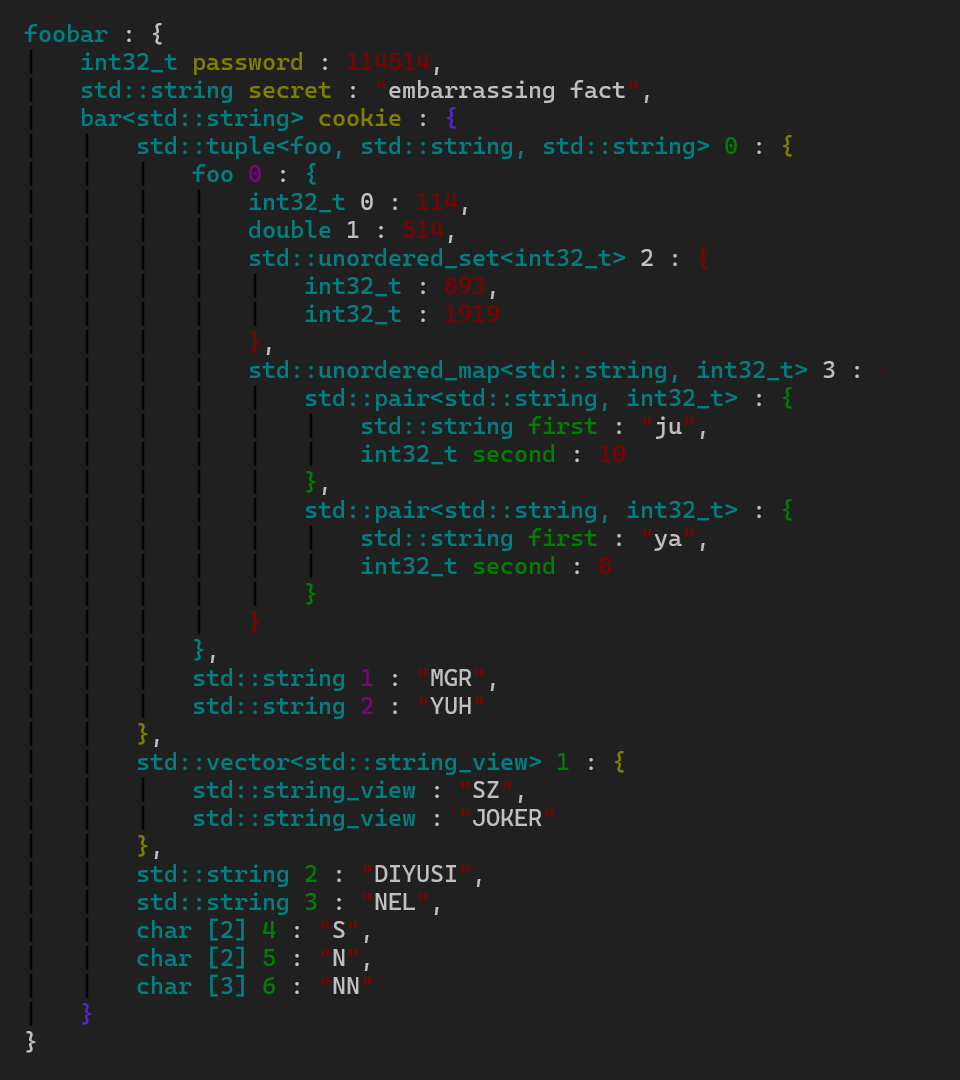
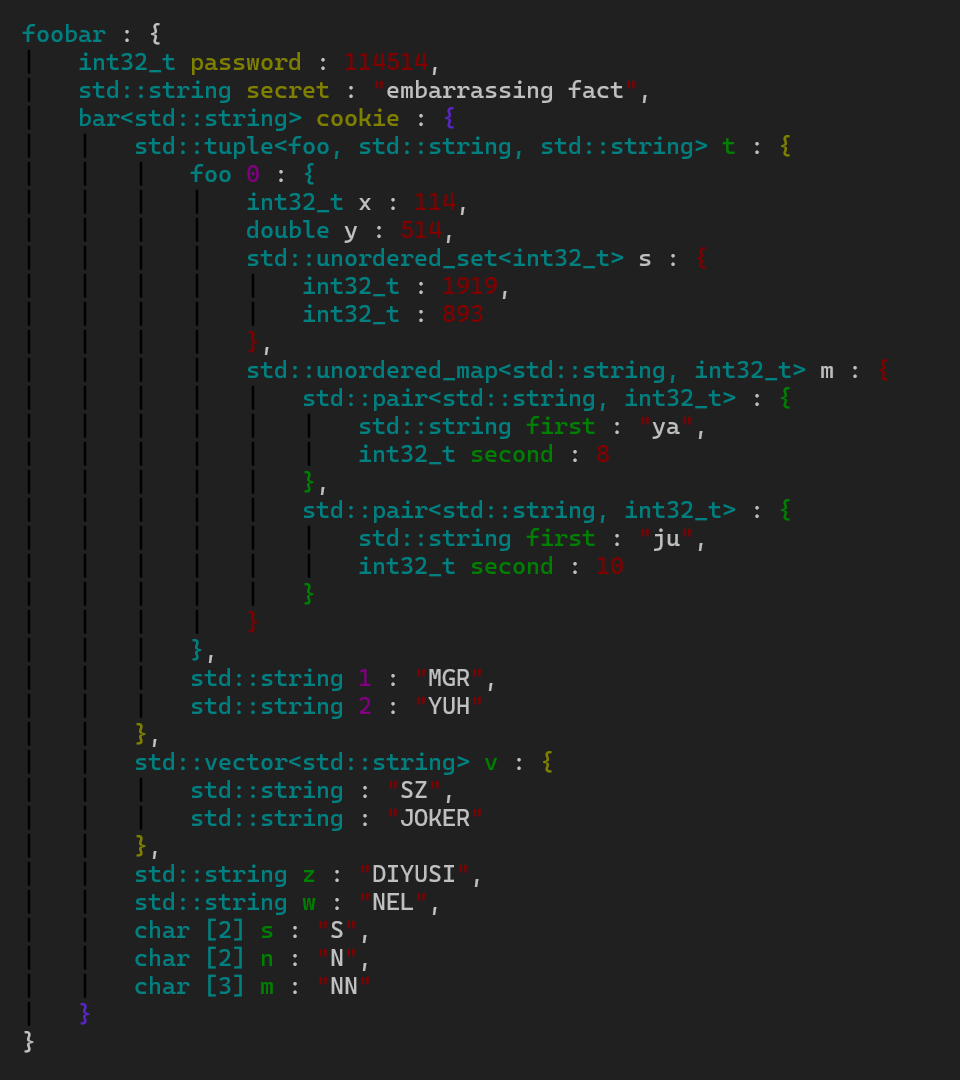
docs: demo/io edit and parse

diff --git a/demo/io/io.cpp b/demo/io/io.cpp
@@ -1,4 +1,5 @@
 #include <iostream>
+#include <sstream>
 #include <vector>
 #include <unordered_set>
 #include <unordered_map>
@@ -6,56 +7,65 @@
 #include "type_format.h"
 
 struct foo{
-	int x;
-	double y;
-	std::unordered_set<int> s;
-	std::unordered_map<std::string, int> m;
+    int x;
+    double y;
+    std::unordered_set<int> s;
+    std::unordered_map<std::string, int> m;
 };
 
 template<typename _Type>
 struct bar{
-	std::tuple<foo, std::string, std::string> t;
-	std::vector<std::string_view> v;
-	_Type z;
-	_Type w;
-	char s[2] = "S";
-	char n[2] = "N";
-	char e[0];
-	char m[3] = "NN";
-	char l[0];
+    std::tuple<foo, std::string, std::string> t;
+    std::vector<std::string> v;
+    _Type z;
+    _Type w;
+    char s[2] = "S";
+    char n[2] = "N";
+    char m[3] = "NN";
 };
 
 struct foobar{
 public:
-	template<std::convertible_to<bar<std::string>> _Cookie>
-	foobar(_Cookie &&_cookie): cookie(std::forward<_Cookie>(_cookie)){}
-	
+    template<std::convertible_to<bar<std::string>> _Cookie>
+    foobar(_Cookie &&_cookie): cookie(std::forward<_Cookie>(_cookie)){}
+    
 private:
-	int password = 114514;
-	std::string secret = "embarrassing fact";
-	bar<std::string> cookie;
+    int password = 114514;
+    std::string secret = "hidden fact";
+    bar<std::string> cookie;
 };
 
 // steal private members. 
 template<>
 struct fake::tool::steal<[]{}, fake::tool::adaptor<foobar>, &foobar::password, &foobar::secret, &foobar::cookie>{
-	// register meta-implementations for token-based-cpo 'fake::for_each<fake::cpo::format<...>>' at compile-time. 
-	using token = fake::cpo::format<fake::io::token::pretty>;
-	static_assert(fake::custom::for_each::config::emplace_visitor<[]{}, token, steal>());
+    // register meta-implementations for token-based-cpo 'fake::for_each<fake::cpo::format<...>>' at compile-time. 
+    using token = fake::cpo::format<fake::io::token::fancy>;
+    static_assert(fake::custom::for_each::config::emplace_visitor<[]{}, token, steal>());
 };
 
 int main(int _argc, char* _argv[])
 {
-	using namespace std::string_literals;
-	
-	bar<std::string> var{
-		{{114, 514.0, {1919, 893}, {{"ya", 8}, {"ju", 10}}}, "MGR", "YUH"},
-		{"SZ", "JOKER"},
-		"DIYUSI"s,
-		"NEL"s
-	};
-	
-	foobar lost_owner{std::move(var)};
-	
-	std::cout << fake::io::pretty<>(lost_owner) << std::endl;
+    using namespace std::string_literals;
+    
+    const bar<std::string> var{
+        {{114, 514.0, {1919, 893}, {{"ya", 8}, {"ju", 10}}}, "MGR", "YUH"},
+        {"SZ", "JOKER"},
+        "DIYUSI"s,
+        "NEL"s
+    };
+    
+    foobar lost_owner{std::move(var)};
+    std::stringstream ss;
+    const std::string_view substitute = "hidden";
+    
+    ss << fake::io::fancy<>(lost_owner);
+    
+    ss.str(ss.str().replace(ss.str().find(substitute), substitute.size(), "embarrassing"));
+    
+    foobar result{std::move(var)};
+    
+    ss >> fake::io::fancy<>(result);
+    
+    std::cout << fake::io::fancy<>(result) << std::endl;
 }
+

diff --git a/README.md b/README.md
@@ -145,6 +145,7 @@ The library is header‑only; no linking required except for threading support (
 
     ```c++
     #include <iostream>
+    #include <sstream>
     #include <vector>
     #include <unordered_set>
     #include <unordered_map>
@@ -161,14 +162,12 @@ The library is header‑only; no linking required except for threading support (
     template<typename _Type>
     struct bar{
         std::tuple<foo, std::string, std::string> t;
-        std::vector<std::string_view> v;
+        std::vector<std::string> v;
         _Type z;
         _Type w;
         char s[2] = "S";
         char n[2] = "N";
-        char e[0];
         char m[3] = "NN";
-        char l[0];
     };
 
     struct foobar{
@@ -178,7 +177,7 @@ The library is header‑only; no linking required except for threading support (
         
     private:
         int password = 114514;
-        std::string secret = "embarrassing fact";
+        std::string secret = "hidden fact";
         bar<std::string> cookie;
     };
 
@@ -186,7 +185,7 @@ The library is header‑only; no linking required except for threading support (
     template<>
     struct fake::tool::steal<[]{}, fake::tool::adaptor<foobar>, &foobar::password, &foobar::secret, &foobar::cookie>{
         // register meta-implementations for token-based-cpo 'fake::for_each<fake::cpo::format<...>>' at compile-time. 
-        using token = fake::cpo::format<fake::io::token::pretty>;
+        using token = fake::cpo::format<fake::io::token::fancy>;
         static_assert(fake::custom::for_each::config::emplace_visitor<[]{}, token, steal>());
     };
 
@@ -194,7 +193,7 @@ The library is header‑only; no linking required except for threading support (
     {
         using namespace std::string_literals;
         
-        bar<std::string> var{
+        const bar<std::string> var{
             {{114, 514.0, {1919, 893}, {{"ya", 8}, {"ju", 10}}}, "MGR", "YUH"},
             {"SZ", "JOKER"},
             "DIYUSI"s,
@@ -202,9 +201,20 @@ The library is header‑only; no linking required except for threading support (
         };
         
         foobar lost_owner{std::move(var)};
+        std::stringstream ss;
+        const std::string_view substitute = "hidden";
         
-        std::cout << fake::io::pretty<>(lost_owner) << std::endl;
+        ss << fake::io::fancy<>(lost_owner);
+        
+        ss.str(ss.str().replace(ss.str().find(substitute), substitute.size(), "embarrassing"));
+        
+        foobar result{std::move(var)};
+        
+        ss >> fake::io::fancy<>(result);
+        
+        std::cout << fake::io::fancy<>(result) << std::endl;
     }
+
     ```
 
     >The demo prints a colored representation of a complex object and demonstrates round‑trip parsing.
